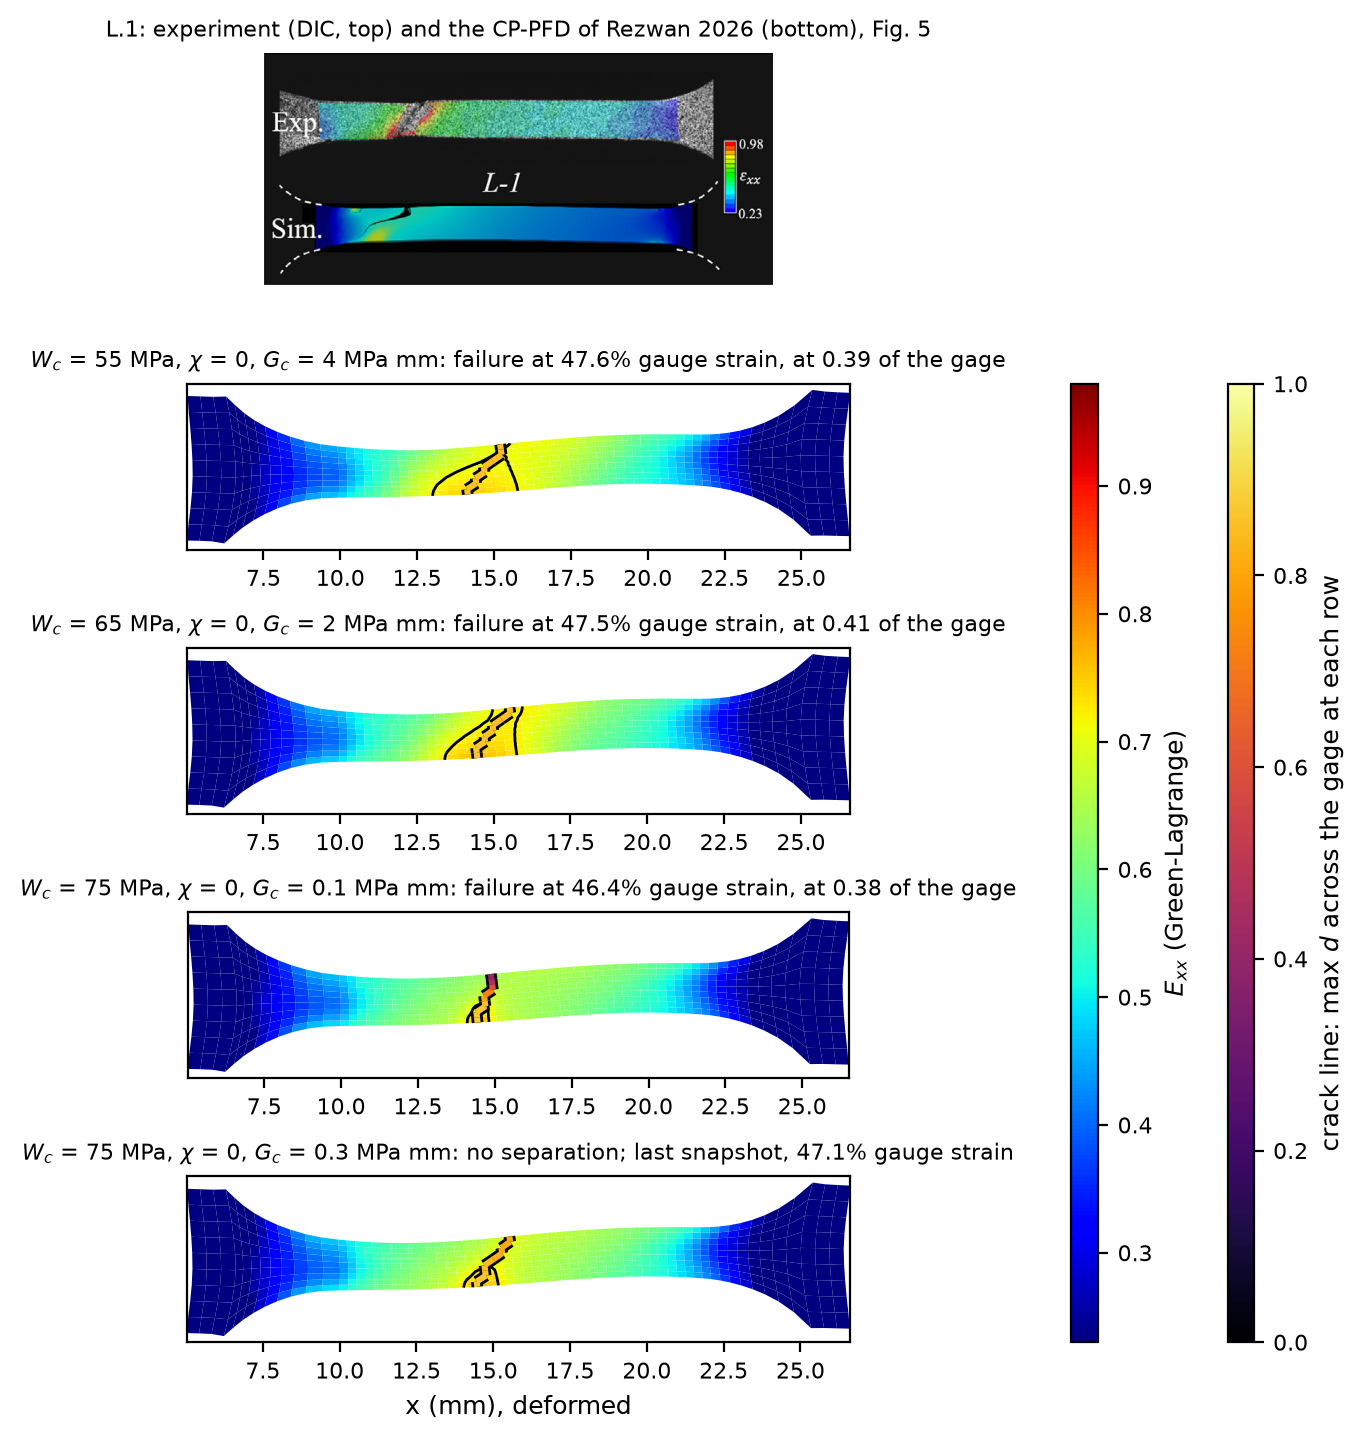
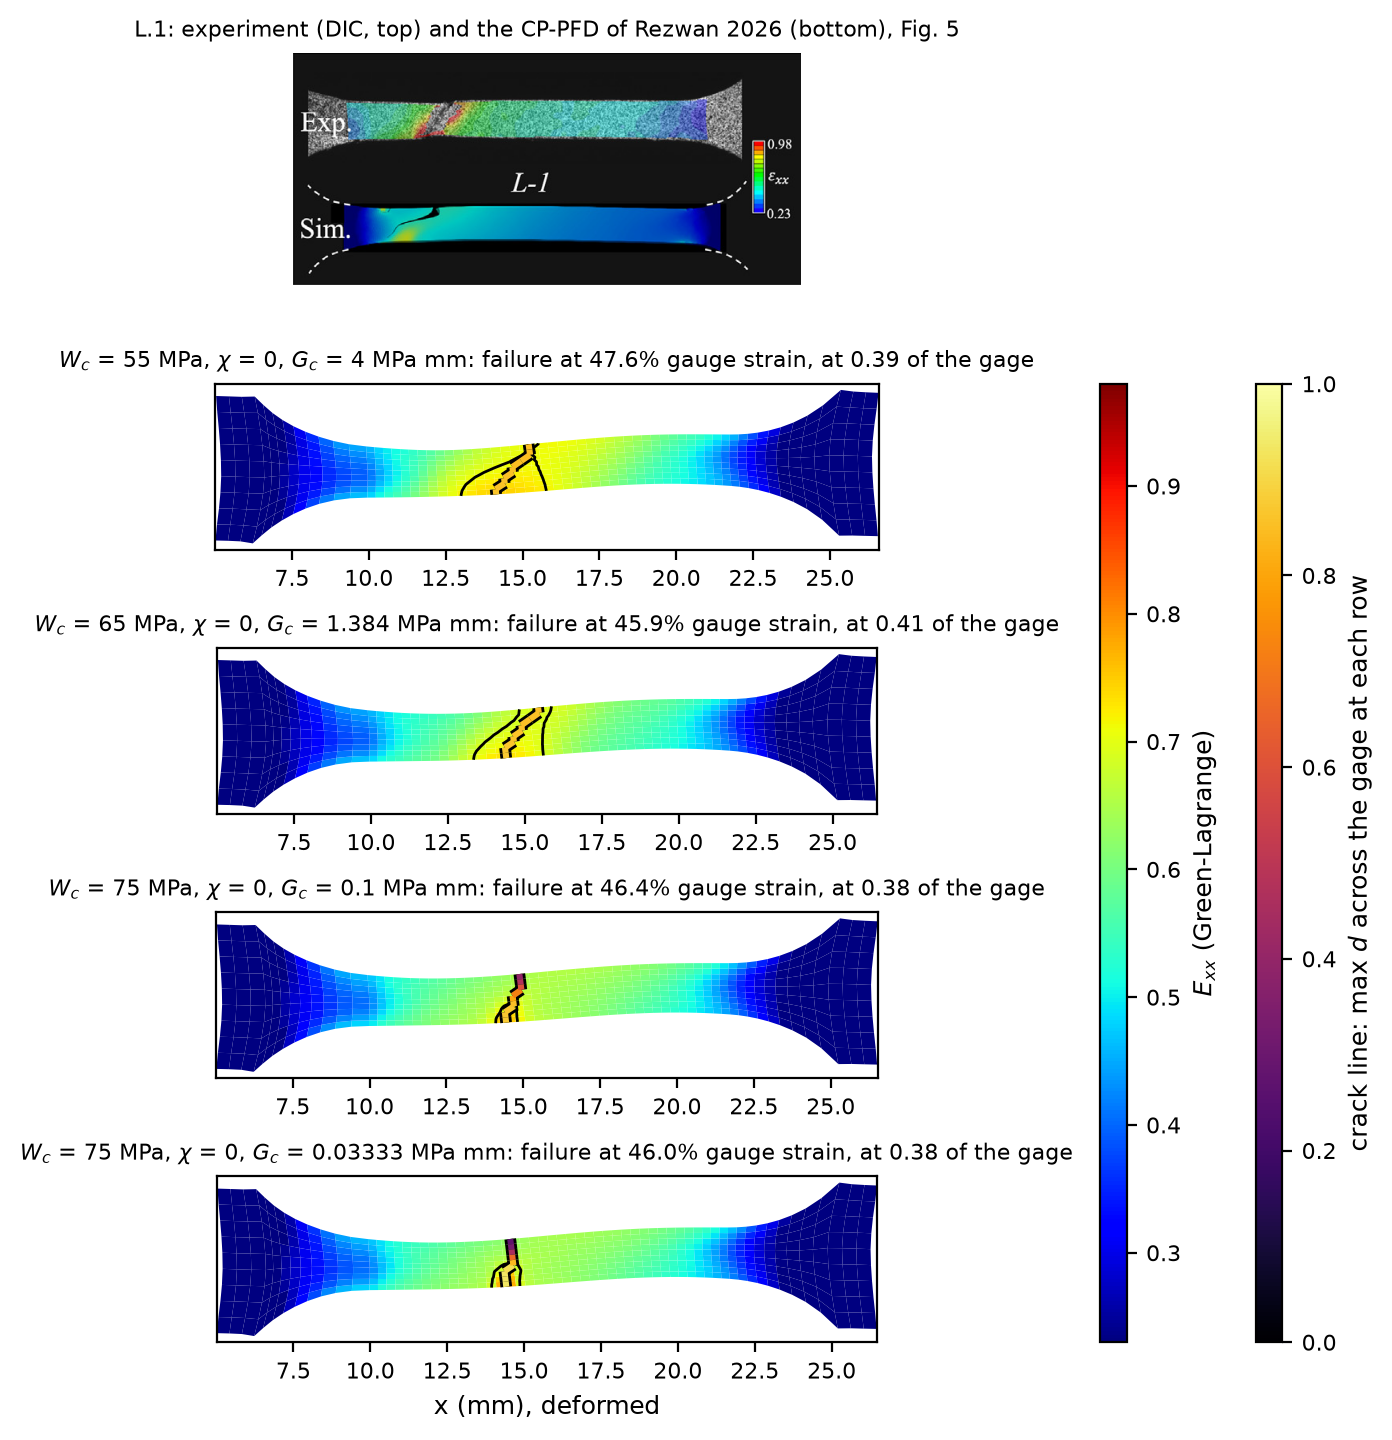
Ni W_c stage, chi = 0: W_c 65 calibrated (G_c 1.384 -> 0.459, flank 58 deg); W_c 75 / G_c 0.1 -> 0.464 and 0.033 -> 0.460 under the final rule; figures with every run and the crack line; notebook, ledger

diff --git a/docs/run_ledger.md b/docs/run_ledger.md
@@ -101,7 +101,7 @@ and what it returned in one line.
 | ni-cal-h020-gn2-k1-cgroup | 2026-10-18 13:00-17:14 | `results/ni_study/cal_h020/gn2/k1_p/specimen.i` | `ni_specimen.py run`, `curve` (cgroup cap) | be71f84 / PINNACLE 9f31bb0 | rocm / 2 threads, 16 GB resident cap | 4.2 h | cutback budget spent at step 231 (43.0% gauge); BE fallback at step 234 -> 16 GB in 17 s -> oom-kill (exit -9). Curve to 43.0% kept (author); GN summary unchanged | k_m OAT curve | 12 §5.1 |
 | ni-mesh-L1-h020set | 2026-10-18 08:35 - 2026-10-19 04:14 (h010 curve end) | `decks/ni/cp/h020/mesh_L1.i` (h040, h010, h020z2; h020 = calibrated run) | `ni_study.py` | study / PINNACLE 9f31bb0 | rocm / 2 + 8 + 4 threads, address-space caps 16 / 24 / 16 GB | h040 done; h010 ~1 day | h040 finished. h020z2 VOID: hit the cap at step 36 in tangent assembly, every retry failed (kept in `h020z2/failed_ascap/`). h010 curve to 47.1% gauge (budget spent at step 243, 23 h, 11 GB resident; process left running for its field snapshots). Results docs/12 §5.2 | docs/12 §5, §5.1 | 12 §5 |
 | ni-mesh-L1-h020z2-cgroup | 2026-10-18 13:00-21:17 | `results/ni_study/mesh_study/L1_h020set/h020z2/specimen.i` | `ni_specimen.py run`, `curve` (cgroup cap) | be71f84 / PINNACLE 9f31bb0 | rocm / 4 threads, 16 GB resident cap | 8.3 h | cutback budget spent at step 226 (44.0% gauge, 238 converged steps); BE fallback -> oom-kill (exit -9). Curve to 44.0% | two-layer h020 of the mesh study | 12 §5.1 |
-| ni-pfd-wc-chi0-L1-h020 | 2026-10-22 07:20 - (running; W_c 75 driver stopped 2026-10-23 00:40 after G_c 0.1, its G_c 0.033 run left to finish) | `decks/ni/pfd/wc{55,65,75}_chi0_L1_h020.i` (l0 0.6, chi 0, W_c 55 / 65 / 75, first G_c 4/16, 2/8, 0.3/1.2) | `ni_pfd_calibrate.py` -> `ni_specimen.py` (curve: mechanics_failure_cut rule) | study / PINNACLE e7fd0d2 | rocm / 6 x 2 threads, 16 GB resident cap each | ~6 h per run | - | W_c stage, second round: purely ductile driving force (author's go-ahead 2026-10-22) | 12 §6.4 |
+| ni-pfd-wc-chi0-L1-h020 | 2026-10-22 07:20 - (W_c 65 done 2026-10-23 09:42: G_c 1.384 -> 0.459; W_c 75 driver stopped 00:40, G_c 0.1 -> 0.464 and 0.033 -> 0.460 by the load-drop rule; W_c 55 running G_c 3.255) | `decks/ni/pfd/wc{55,65,75}_chi0_L1_h020.i` (l0 0.6, chi 0, W_c 55 / 65 / 75, first G_c 4/16, 2/8, 0.3/1.2) | `ni_pfd_calibrate.py` -> `ni_specimen.py` (curve: mechanics_failure_cut rule) | study / PINNACLE e7fd0d2 | rocm / 6 x 2 threads, 16 GB resident cap each | ~6 h per run | - | W_c stage, second round: purely ductile driving force (author's go-ahead 2026-10-22) | 12 §6.4 |
 | ni-pfd-wc-L1-h020 | 2026-10-21 20:10 - 2026-10-22 06:31 | `decks/ni/pfd/wc{55,65,75}_L1_h020.i` (base `base_L1_h020.i`; l0 0.6, W_c 55 / 65 / 75 MPa, first G_c 4/16, 2/8, 0.3/1.2) | `ni_pfd_calibrate.py` -> `ni_specimen.py` | c17ac63 / PINNACLE a514d66 | rocm / 6 x 2 threads, 16 GB resident cap each | 0.3-10 h per run | W_c 75: G_c 0.3 cracked the fillet at 3.7%, 1.2 died there at 9.2%; W_c 65: G_c 2 cracked the fillet at 13.8%, G_c 8 reached 45.8% (max d 0.998 at the fillet, mechanics failed one step short of separation; curve within 1-2% of the experiment to 40%); W_c 55: G_c 4 died at 12.2%, G_c 16 no failure by 48.0% (curve on the experiment, 241 MPa peak; d < 0.1 to 30%, 0.71 at 48%). All three searches stopped (undecided runs) | W_c stage, first round (chi = 1): the trend, and the elastic barrier at the fillets | 12 §6.3 |
 | ni-pfd-cal-L1-h020-l12 | 2026-10-20 22:20 - 2026-10-21 04:17 | `decks/ni/pfd/cal_L1_h020_l12.i` (one run, l0 1.2, G_c 61.1) | `ni_pfd_calibrate.py` -> `ni_specimen.py` | study / PINNACLE e2f4e94 | rocm / 2 threads, 16 GB resident cap | 6.0 h | failure 0.472 at 0.32 of the gage, max d 0.88 at separation; curve within 0.3% of l0 0.8 | l0/h = 6 plateau check at G_c / l0 = 50.9 MPa (author's option 1) | 12 §6.2 |
 | ni-pfd-cal-L1-h020-l04-gc21 | 2026-10-20 21:55 - 2026-10-21 04:26 | `decks/ni/pfd/cal_L1_h020_l04_gc21.i` (one run, l0 0.4, G_c 21.1) | `ni_pfd_calibrate.py` -> `ni_specimen.py` | study / PINNACLE e2f4e94 | rocm / 2 threads, 16 GB resident cap | 6.6 h | failure 0.461 at 0.17 of the gage (hit) | l0 0.4 bracket 20.17/22, interpolated in ln G_c | 12 §6.2 |

diff --git a/docs/12_ni_study.md b/docs/12_ni_study.md
@@ -706,3 +706,28 @@ shape figure (`ridge = true`): the max-d node of each row across the gage width,
 colored by d, over the 0.85 outline; on the chi = 0 runs the line is inclined at roughly 45-60
 deg across the width at 0.38-0.41 of the gage.
 
+chi = 0 searches, state at 2026-10-23 11:00 (W_c 55 / G_c 3.255 still running; figures redrawn with
+every run, `pfd_curves_L1_wc_chi0.i`, `pfd_shape_L1_wc_chi0.i`, `_damage.i`, ridge line on):
+
+| W_c | G_c | failure | mode | onset (d > 0.1) | S / exp at 20 / 30 / 40 / 45% | peak | zone center | flank |
+|---|---|---|---|---|---|---|---|---|
+| 55 | 1.333 | 0.409 | separation | 35.7% | - | 225.5 | 0.39 | 56 deg |
+| 55 | 4 | 0.476 | separation | 35.8% | 0.996 / 0.996 / 0.986 / 0.984 | 237.1 | 0.39 | 48 deg |
+| 55 | 16 | none by 0.601 (path end) | - | 36% | - | 252.4 | - | - |
+| 65 | 0.6667 | 0.440 | separation | 40.7% | - | 234.8 | 0.40 | 60 deg |
+| 65 | **1.384** | **0.459** | separation | 40.7% | 0.996 / 0.996 / 1.00 / 0.978 | 234.9 | 0.41 | 58 deg |
+| 65 | 2 | 0.475 | separation | 40.7% | - | 236.4 | 0.41 | 58 deg |
+| 65 | 8 | none by 0.484 (mechanics) | - | 41.3% | - | 243.8 | - | - |
+| 75 | 1.2 / 0.3 | none by 0.474 / 0.471 (mechanics; max d 0.74 / 0.86) | - | 45.9 / 45.7% | 0.996 / 0.996 / 1.00 / 1.008 | 242 | - | - |
+| 75 | **0.1** | **0.464** | load drop (5.9%) | 45.7% | 0.996 / 0.996 / 1.00 / 1.008 | 241.5 | 0.38 | 77 deg (zone); crack line inclined |
+| 75 | 0.03333 | 0.460 | load drop (17.2%) | 45.5% | same | 241.4 | 0.38 | 83 deg (zone); crack line inclined |
+
+W_c 65 is calibrated by the driver (G_c 1.384, 0.459, within tolerance). W_c 75: G_c 0.1 (0.464,
+the author's preferred result) and 0.033 (0.460) both hit under the final definition; G_c 0.1 is
+the carried value (the larger G_c with the smaller load drop at the cut). W_c 55 awaits G_c 3.255
+(bracket 1.333 -> 0.409, 4 -> 0.476). The W_c 55 / G_c 16 run went to the path end at 60% with no
+mechanics trouble, so the 47-48% mechanics stops of the other runs are damage-related. The
+`angle_to_axis_deg` of the zone (PCA of the d > 0.85 nodes) reads 77-83 deg for the W_c 75 cases
+because their zone is a short segment at one row; the crack line (max-d ridge) is what shows
+the inclination there.
+
